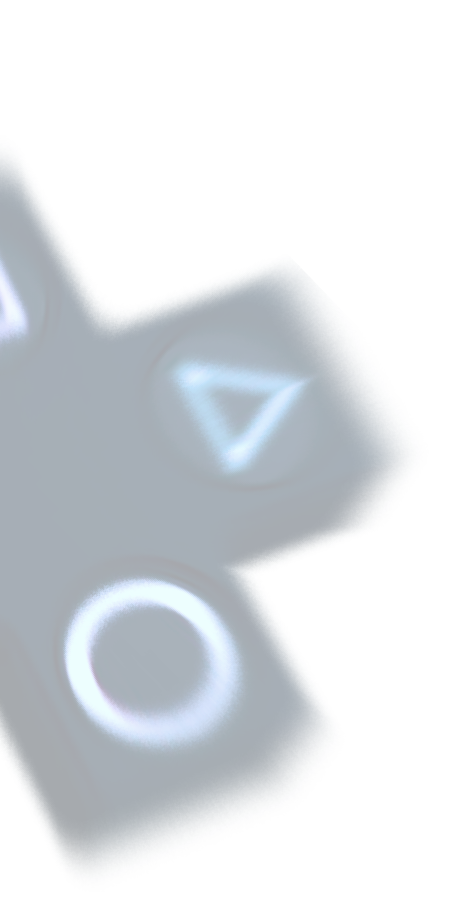
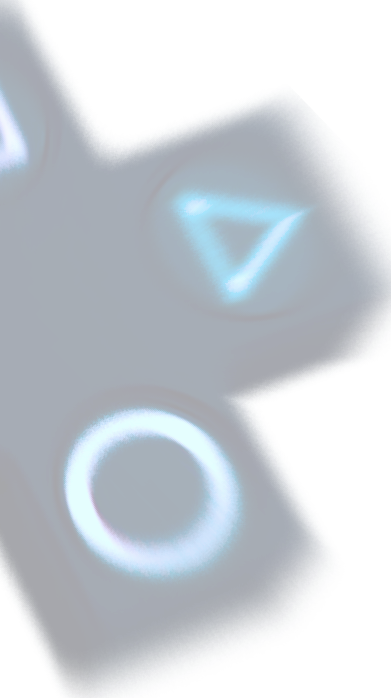
1

diff --git a/index.html b/index.html
@@ -193,6 +193,10 @@
           </div>
         </section>
         <section class="in-demand">
+          <img class="joystick-1" src="./images/joystick-1.png" alt="icon" />
+          <img class="joystick-2" src="./images/joystick-2.png" alt="icon" />
+          <img class="joystick-5" src="./images/joystick-5.png" alt="icon" />
+          <img class="joystick-6" src="./images/joystick-6.png" alt="icon" />
           <img
             class="in-demand__top"
             src="./images/in-demand-top.svg"

diff --git a/css/index.css b/css/index.css
@@ -1678,3 +1678,23 @@ button {
   border-radius: 10px;
   background: linear-gradient(90deg, #0075ff 0%, #331bab 100%);
 }
+.joystick-1 {
+  position: absolute;
+  top: 0;
+  left: 0;
+}
+.joystick-2 {
+  position: absolute;
+  top: 0;
+  right: 0;
+}
+.joystick-5 {
+  position: absolute;
+  bottom: 200px;
+  left: 0;
+}
+.joystick-6 {
+  position: absolute;
+  bottom: 200px;
+  right: 0;
+}
